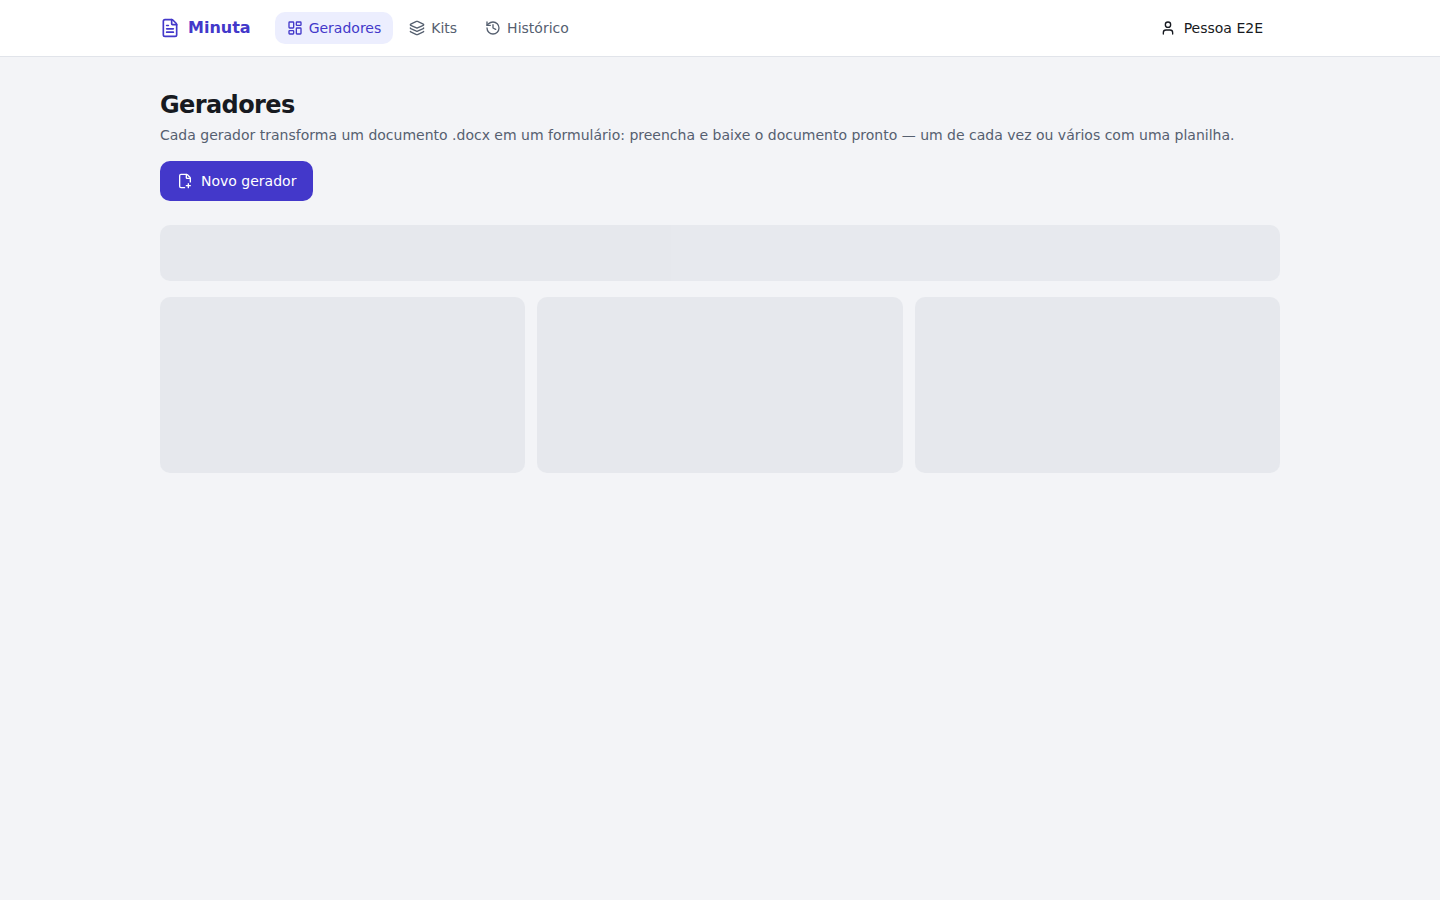
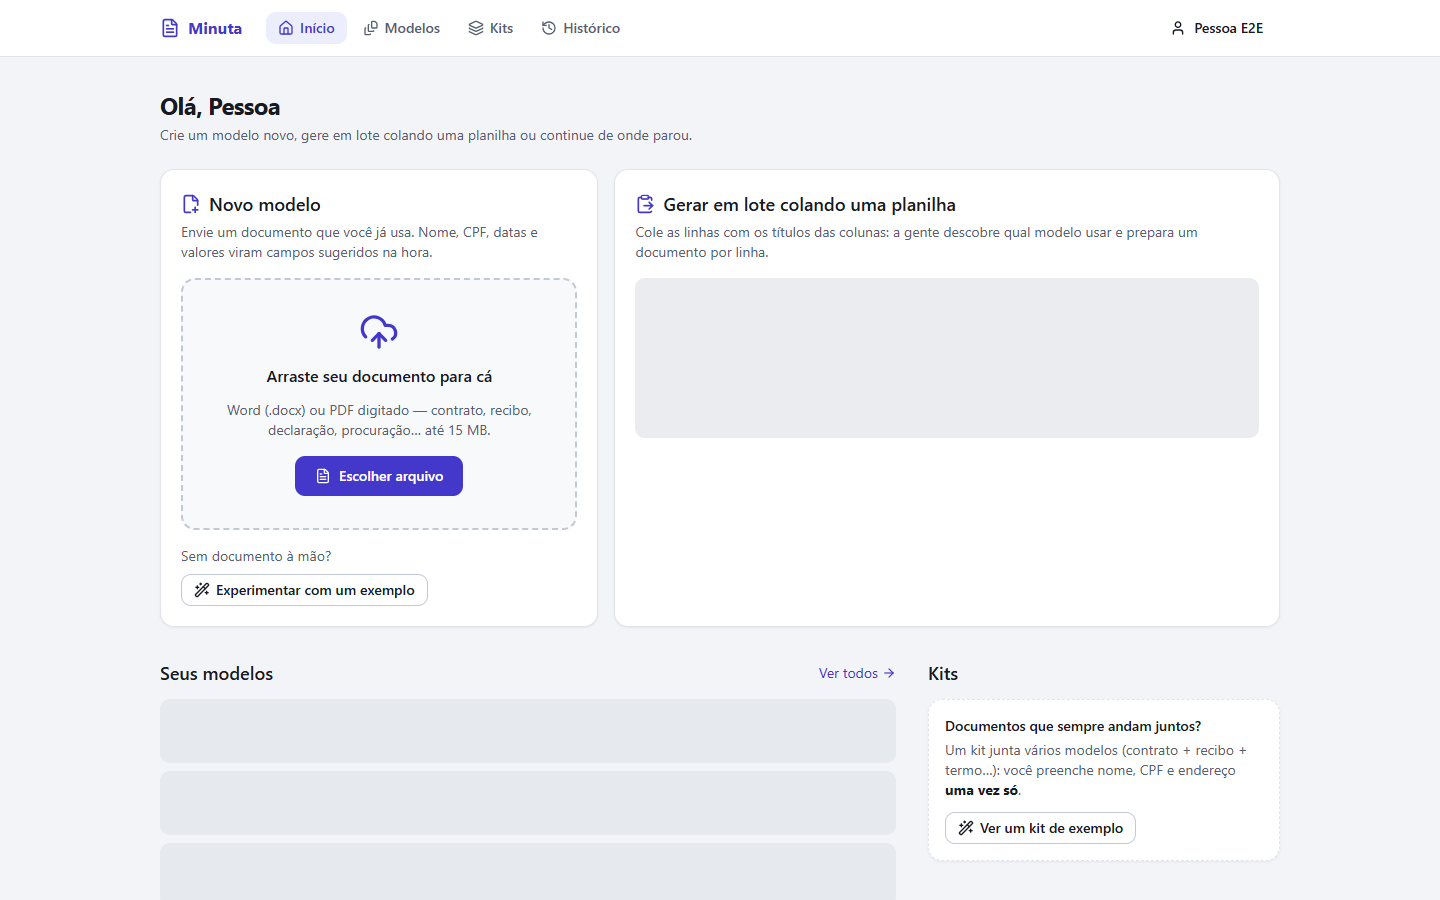
Documentação e capturas da Fase 0: modelo, PDF digitado, colar planilha
- README: etapas Documento → Campos → Revisão → Gerar, PDF digitado,
  "cole aqui", roteiro, cobertura de testes e resultados verificados da
  Fase 0 (stack Docker nova, Edge, limites de cadastro por hora).
- DECISIONS D28, API (/batch/identify, formatos de upload e erros de PDF),
  DEMO (PDF digitado e digitalizado, captura em 390 px) e ROADMAP.
- docs/screenshots recapturadas na stack Docker nova; nova 19 (celular).

diff --git a/README.md b/README.md
@@ -1,15 +1,16 @@
 # Minuta — geração inteligente de documentos
 
-Transforme documentos repetitivos (contratos, declarações, propostas, procurações, termos, recibos, formulários de RH) em **geradores reutilizáveis**.
+Transforme documentos repetitivos (contratos, declarações, propostas, procurações, termos, recibos, formulários de RH) em **modelos reutilizáveis**.
 
-Cada gerador passa por 4 etapas, sempre visíveis no topo da tela — **Modelo → Campos → Revisão → Gerar**:
+Cada modelo passa por 4 etapas, sempre visíveis no topo da tela — **Documento → Campos → Revisão → Gerar**:
 
-1. **Modelo**: envie um `.docx` que você já usa (dá para trocá-lo depois; os campos são reposicionados).
+1. **Documento**: envie um `.docx` ou um **PDF digitado** (exportado do Word, Google Docs ou de um sistema) que você já usa; o PDF vira Word editável. **PDF digitalizado** (foto ou escaneamento) é recusado de propósito, com explicação. Dá para trocar o documento depois; os campos são reposicionados.
 2. **Campos**: no editor visual, **selecione** um trecho como “João da Silva” e clique em **Transformar em campo** — sem escrever `{{placeholders}}`. Sugestões automáticas (CPF, CNPJ, datas, valores…) e avisos de nome repetido, lista sem opções e campo fora do documento.
 3. **Revisão**: o documento com **dados de exemplo**, a lista do que falta ajustar e o nome dos arquivos gerados.
 4. **Gerar**: **um documento** num formulário automático (máscaras e validações brasileiras, prévia ao vivo, rascunho salvo sozinho) ou **vários** numa grade estilo Excel (colar do Excel, importar XLSX/CSV, erros por célula, resumo antes de gerar).
 4. Saída em **DOCX e PDF reais** (LibreOffice), com histórico, links temporários e ZIP + relatório CSV para lotes.
-5. **Kit de documentos**: agrupe geradores prontos que compartilham variáveis (nome, CPF, endereço…) — preencha uma vez e gere todos juntos, com download individual ou em ZIP.
+5. **Cole aqui e a gente descobre o modelo** (página inicial): cole as linhas de uma planilha com a linha de títulos; o sistema identifica qual modelo ela preenche, mostra como cada coluna vira um campo e leva as linhas para o lote. Sem linha de títulos, só o conteúdo (CPF, datas…) é usado e nada é enviado ao classificador externo.
+6. **Kit de documentos**: agrupe modelos prontos que compartilham variáveis (nome, CPF, endereço…) — preencha uma vez e gere todos juntos, com download individual ou em ZIP.
 
 Stack: Next.js 16 · React 19 · TipTap · TanStack Query/Virtual · FastAPI · SQLAlchemy 2 · PostgreSQL · Redis + Dramatiq · MinIO/S3 · LibreOffice headless.
 
@@ -66,7 +67,7 @@ API_INTERNAL_URL=http://127.0.0.1:8100 npm run dev      # PowerShell: $env:API_I
 
 Veja o passo a passo completo em [docs/DEMO.md](docs/DEMO.md). Resumo, com os arquivos em `demo/`:
 
-1. **Cadastro** → **Criar meu primeiro gerador** → (etapa **Modelo**) nome opcional → envie `demo/contrato_prestacao_servicos.docx`.
+1. **Cadastro** → no **Início**, envie `demo/contrato_prestacao_servicos.docx` (ou `.pdf`, que é digitado) ou abra **Novo modelo** → (etapa **Documento**) nome opcional.
 2. (etapa **Campos**) **Selecione “João da Silva”** → menu flutuante → **Transformar em campo** → “Nome do contratante”. Na outra ocorrência, o editor avisa que o nome já existe e oferece **usar o campo existente**.
 3. Selecione “consultoria em desenvolvimento de software” → tipo **Lista de opções** → cole 3 opções (uma por linha).
 4. Aba **Sugestões** → **Aceitar as recomendadas** (CPF, CNPJ, valor, datas).
@@ -84,7 +85,7 @@ cd backend && .venv/Scripts/python -m pytest
 TEST_DATABASE_URL=postgresql://usuario:senha@localhost:5432/teste .venv/Scripts/python -m pytest
 # Frontend: unidade (vetores compartilhados com o backend + grade) e tipos
 cd frontend && npm test && npm run typecheck
-# E2E + acessibilidade (stack já em execução em :3000; E2E_CHANNEL=msedge usa o Edge instalado;
+# E2E + acessibilidade (stack já em execução em :3000, ou E2E_BASE_URL=http://localhost:PORTA; E2E_CHANNEL=msedge usa o Edge instalado;
 # E2E_EXECUTABLE_PATH=/caminho/do/chromium usa um Chromium já instalado)
 cd frontend && npx playwright test
 # Recapturar docs/screenshots
@@ -95,7 +96,26 @@ cd backend && .venv/Scripts/python -m ruff check app seed tests
 python scripts/crash_recovery_test.py
 ```
 
-O que a suíte cobre: validações CPF/CNPJ (incl. alfanumérico) e tipos de campo; **vetores compartilhados backend↔frontend**; texto dividido em runs do DOCX, campo repetido, formatação, imagem, tabela, cabeçalho, rodapé; segurança de upload (ZIP bomb, macros, XXE, path traversal); **isolamento multi-tenant** (dois workspaces, chamadas de geradores **e** de kits + download assinado); **idempotência**; **falha parcial em lote**, retomada de job e **recuperação após queda do worker** (claim atômico, heartbeat, watchdog, perda de posse); geração sem etapa de publicação (uso imediato, restaurar versão, fixar); **kit de documentos** (detecção automática de campos compartilhados — por similaridade de rótulo e, opcionalmente, por **classificação semântica de papéis** via TypeSafe.ai/Jev, distinguindo "contratante" de "contratado" e reconhecendo sinônimos —, mapeamento manual, tipos incompatíveis, geração de todos os documentos do kit, ZIP + relatório); **detecção de campos no upload** (ano, mês como lista suspensa, numeração de sugestões duplicadas, papel de parte antes de um nome — ver D26); importação XLSX/CSV (mapeamento sugerido, **oferecer adicionar um valor novo à lista suspensa** durante a importação); provedor de IA (schema, retry, timeout, cache por hash, indisponibilidade); grade (colar TSV, desfazer, preencher); **pendências dos campos, ordem do documento, dados de exemplo e nome de arquivo** (unidade); E2E dos fluxos principais pelas 4 etapas (individual, gerador sem documento, editor com pendências e salvamento, lote com planilha vazia/linha de exemplo, kit); axe (WCAG A/AA) em todas as etapas do gerador.
+O que a suíte cobre: validações CPF/CNPJ (incl. alfanumérico) e tipos de campo; **vetores compartilhados backend↔frontend**; texto dividido em runs do DOCX, campo repetido, formatação, imagem, tabela, cabeçalho, rodapé; segurança de upload (ZIP bomb, macros, XXE, path traversal); **isolamento multi-tenant** (dois workspaces, chamadas de geradores **e** de kits + download assinado); **idempotência**; **falha parcial em lote**, retomada de job e **recuperação após queda do worker** (claim atômico, heartbeat, watchdog, perda de posse); geração sem etapa de publicação (uso imediato, restaurar versão, fixar); **kit de documentos** (detecção automática de campos compartilhados — por similaridade de rótulo e, opcionalmente, por **classificação semântica de papéis** via TypeSafe.ai/Jev, distinguindo "contratante" de "contratado" e reconhecendo sinônimos —, mapeamento manual, tipos incompatíveis, geração de todos os documentos do kit, ZIP + relatório); **detecção de campos no upload** (ano, mês como lista suspensa, numeração de sugestões duplicadas, papel de parte antes de um nome — ver D26); importação XLSX/CSV (mapeamento sugerido, **oferecer adicionar um valor novo à lista suspensa** durante a importação); provedor de IA (schema, retry, timeout, cache por hash, indisponibilidade); grade (colar TSV, desfazer, preencher); **pendências dos campos, ordem do documento, dados de exemplo e nome de arquivo** (unidade); E2E dos fluxos principais pelas 4 etapas (individual, modelo sem documento, editor com pendências e salvamento, lote com planilha vazia/linha de exemplo, kit, PDF digitado × digitalizado, colar planilha com e sem títulos, celular 390 px); **PDF digitado vs digitalizado** e **colar sem títulos não chega ao classificador externo** (backend); axe (WCAG A/AA) em todas as etapas do modelo.
+
+## Resultados verificados — Fase 0 (execução real, 15/10/2026)
+
+Ambiente: stack Docker **recriada do zero** num projeto Compose separado (`docker compose -p minuta-fase0`, portas 3210/8110/9111, volumes novos — nenhum volume ou dado existente foi apagado ou alterado), imagens reconstruídas com o código desta branch; E2E no **Microsoft Edge** (`E2E_CHANNEL=msedge`); testes de backend em SQLite (modo local).
+
+| Verificação | Resultado |
+|---|---|
+| Backend `pytest` | **273 passed** (inclui PDF digitado × digitalizado, `/batch/identify`, colar sem títulos, `{modelo}`) |
+| Backend `ruff check` · `ruff format --check` | 0 erros · 99 arquivos formatados |
+| Frontend `vitest` | **87 passed** |
+| Frontend `tsc` (app + testes) · `next build` | 0 erros |
+| Frontend `eslint` | 0 erros, 15 avisos (regras do React Compiler, os mesmos de antes) |
+| Stack Docker do zero (`up -d --build`: postgres 17, redis, minio, migrate + seed, api, worker, web) | todos os serviços saudáveis; migrations 0001 → 0004 aplicadas |
+| E2E Playwright (Edge) contra a stack Docker | **15 passed**, 2 de captura de tela (sob demanda): fluxo individual (Documento → Campos → Revisão → Gerar), modelo sem documento, editor, 4 de lote, kit, **PDF digitado aceito / digitalizado recusado**, **colar com e sem títulos**, **celular 390 px**, 3× axe (WCAG 2 A/AA) + teclado |
+| Home em 390 px | sem rolagem horizontal (corrigido: a lista "Seus modelos" chegava a 435 px) |
+
+Observações da execução:
+- O cadastro é limitado a **10 por hora por IP** (`app/modules/auth/service.py`). A suíte E2E cria ~7 contas por execução; para repeti-la na mesma hora numa stack de desenvolvimento, apague a chave `rl:register:*` do Redis **dessa stack** (`docker compose exec redis redis-cli --scan --pattern 'rl:register:*'`).
+- Não reexecutado nesta fase: PostgreSQL via `TEST_DATABASE_URL`, lote de 1.000 e queda do worker (`scripts/crash_recovery_test.py`).
 
 ## Resultados verificados — revisão de UX (execução real, 26/09/2026)
 

diff --git a/docs/DEMO.md b/docs/DEMO.md
@@ -5,18 +5,21 @@ Capturas de tela em `docs/screenshots/` (geradas por `CAPTURE_SCREENSHOTS=1 npx 
 
 | | |
 |---|---|
-| ![Primeiro acesso](screenshots/01-primeiro-acesso.png) | ![Etapa Modelo](screenshots/02-etapa-modelo-envio.png) |
+| ![Primeiro acesso](screenshots/01-primeiro-acesso.png) | ![Etapa Documento](screenshots/02-etapa-modelo-envio.png) |
 | ![Seleção e menu flutuante](screenshots/04-editor-selecao-menu-flutuante.png) | ![Aviso de nome repetido](screenshots/06-editor-aviso-nome-repetido.png) |
 | ![Lista de campos](screenshots/08-editor-lista-de-campos.png) | ![Revisão com dados de exemplo](screenshots/10-revisao-previa-exemplo.png) |
 | ![Formulário e prévia](screenshots/12-formulario-previa-erro.png) | ![Lote: resumo antes de gerar](screenshots/16-lote-resumo.png) |
 | ![Lote com erros](screenshots/15-lote-grade-com-erros.png) | ![Histórico](screenshots/18-historico.png) |
+| ![Início no celular (390 px)](screenshots/19-inicio-celular-390.png) | |
 
-Todo gerador tem as mesmas **4 etapas**, visíveis no topo de cada tela: **Modelo → Campos → Revisão → Gerar**. A etapa atual fica destacada, as concluídas ganham ✓ e as que ainda não fazem sentido ficam bloqueadas, com o motivo.
+Todo modelo tem as mesmas **4 etapas**, visíveis no topo de cada tela: **Documento → Campos → Revisão → Gerar**. (O que antes se chamava "gerador" agora é "modelo"; ver [D28](DECISIONS.md).) A etapa atual fica destacada, as concluídas ganham ✓ e as que ainda não fazem sentido ficam bloqueadas, com o motivo.
 
-## Parte A — Criar um gerador (≈ 4 min)
+## Parte A — Criar um modelo (≈ 4 min)
 
-1. **Criar conta** em http://localhost:3000/register (ou entre com `demo@minuta.app` / `demo12345` para ver um gerador já pronto). No primeiro acesso, o painel explica as 4 etapas. Clique em **Criar meu primeiro gerador** (ou **Experimentar com um exemplo**).
-2. **Etapa Modelo**: dê um nome (opcional; sem nome, usamos o do arquivo) e escolha `demo/contrato_prestacao_servicos.docx`. A tela acompanha a análise e leva à etapa Campos.
+1. **Criar conta** em http://localhost:3000/register (ou entre com `demo@minuta.app` / `demo12345` para ver um gerador já pronto). No primeiro acesso, o **Início** explica as 4 etapas: envie o documento ali mesmo, ou clique em **Novo modelo** em **Modelos** (ou **Experimentar com um exemplo**).
+2. **Etapa Documento**: dê um nome (opcional; sem nome, usamos o do arquivo) e escolha `demo/contrato_prestacao_servicos.docx`. A tela acompanha a análise e leva à etapa Campos.
+   - **PDF digitado**: `demo/contrato_prestacao_servicos.pdf` (exportado do Word/LibreOffice) é convertido em Word editável e aparece com o selo "convertido de PDF para Word".
+   - **PDF digitalizado**: `demo/contrato_digitalizado.pdf` (imagem de papel) é recusado com a explicação e o modelo não fica criado.
 3. **Etapa Campos**: o documento aparece com cabeçalho, corpo, **tabela**, rodapé, imagem e quebra de página (blocos cinza são preservados e não editáveis). À direita ficam a lista de **Campos** e as **Sugestões**.
 4. **Selecione "João da Silva"** (primeiro parágrafo). No menu flutuante, clique em **Transformar em campo**. O trecho fica destacado enquanto o painel está aberto. Digite **Nome do contratante** e clique em **Criar campo**. O trecho vira um chip com ícone e dica (nome, tipo, texto original).
 5. Selecione a outra ocorrência do nome ("em favor de João da Silva") e clique em **Transformar em campo**. Se digitar o mesmo nome, o editor **avisa que já existe** e oferece **usar o campo existente**. Também dá para escolher em "É uma informação que já tem campo?". O painel passa a mostrar "2× no documento", com setas para navegar entre as ocorrências.

diff --git a/docs/DECISIONS.md b/docs/DECISIONS.md
@@ -179,3 +179,11 @@ Avaliadas: **AG Grid Community**, **Glide Data Grid**, **TanStack Table + Virtua
   - Contêineres roláveis com `relative`: sem isso, o `<caption class="sr-only">` das tabelas alargava a página no celular.
   - Foco visível nos seletores com checkbox escondido e soltar arquivo na importação (antes o navegador abria o arquivo).
 - **E2E**: a suíte estava desatualizada em relação à interface. Foi reescrita para o fluxo atual, com casos novos: gerador sem documento, pendências e salvamento no editor, planilha vazia e linha de exemplo, e axe em todas as etapas.
+
+## D28 — Fase 0: PDF digitado, "modelo", colar tabela e o que nunca sai para fora
+- **PDF digitado vira .docx**: o resto do sistema continua trabalhando só com .docx. `docx_engine/pdf_import.py` converte (pdfplumber + python-docx; licenças MIT/BSD/Apache — PyMuPDF e pdf2docx ficaram de fora por serem AGPL). Roda em **processo filho** com tempo (60 s), memória (2 GB, Linux) e páginas (40) limitados.
+- **Digitado × digitalizado**: página com texto visível suficiente é digitada (mesmo com papel timbrado); sem letras visíveis e com muita área de imagem é digitalizada. A camada de OCR de scanners usa texto *invisível* (modo de renderização 3) e por isso **não conta**. Digitalizado é recusado (`PDF_SCANNED`) de propósito: OCR erra justamente nomes, CPFs e valores, que viram campos. Texto desenhado ou sem mapeamento Unicode → `PDF_TEXT_UNREADABLE`.
+- **Nomes**: "modelo" é a coisa reutilizável e a 1ª etapa é "Documento" (Documento → Campos → Revisão → Gerar). O código `{gerador}` dos nomes de arquivo continua valendo; `{modelo}` é o novo padrão e um campo chamado "modelo" vence o nome.
+- **Cole aqui**: `POST /batch/identify` escolhe o modelo pela tabela colada (nome do título, grafia parecida, conteúdo; semântico opcional). A tela leva as linhas ao lote pelo `sessionStorage`.
+- **Segurança (classificador externo)**: o classificador semântico recebe só rótulos de colunas e de campos. Se a 1ª linha colada parece **dado** (CPF, CNPJ, e-mail, data, CEP, valor, número, telefone), ela não é tratada como título: entra como amostra, só o casamento local roda e nada vai ao serviço externo (`header_looks_like_data`). Teste com espião no classificador em `test_identify.py`.
+- **Correção**: a data "01/02/2027" tem 8 dígitos e era lida como CEP no casamento por conteúdo; agora a data é testada antes.

diff --git a/docs/API.md b/docs/API.md
@@ -36,7 +36,7 @@ Sem rascunho/publicação: `document_generators.current_version_id` é a versão
 
 | Método | Rota | |
 |---|---|---|
-| POST | `/generators/{id}/template` | upload `.docx` (multipart `file`): valida, parseia, vira a versão atual na hora, enfileira análise |
+| POST | `/generators/{id}/template` | upload `.docx` **ou PDF digitado** (multipart `file`): valida, parseia (PDF vira .docx antes, ver [D28](DECISIONS.md)), vira a versão atual na hora, enfileira análise. Recusas de PDF: `NOT_A_PDF`, `PDF_SCANNED` (digitalizado), `PDF_TEXT_UNREADABLE`, `PDF_TOO_MANY_PAGES`, `PDF_TIMEOUT`, `PDF_CONVERSION_FAILED`; `ENCRYPTED` para PDF com senha. A versão traz `source_format` (`docx`\|`pdf`) |
 | GET | `/generators/{id}/editor` | documento (ProseMirror JSON), campos, versão atual, avisos (`404` se nenhum arquivo foi enviado ainda) |
 | PUT | `/generators/{id}/editor/content` | `{revision, doc}`; `409 STALE_REVISION` se a revisão mudou |
 | GET | `/generators/{id}/versions` · POST `…/versions/{vid}/restore` | histórico (a mais recente é a atual) / restaurar uma versão antiga como nova versão atual |
@@ -59,6 +59,7 @@ Tipos: `text_short, text_long, number, currency, date, cpf, cnpj, cep, email, ph
 | Método | Rota | |
 |---|---|---|
 | POST | `/generators/{id}/generate` | `{values, format: docx\|pdf\|both, filename_pattern}` → job (202) |
+| POST | `/batch/identify` | `{headers, rows (≤50), generator_id?}` → modelo provável para uma **tabela colada**, com o mapeamento coluna → campo (`status`: `exact`\|`probable`\|`weak`\|`none`). Sem linha de títulos (`header_looks_like_data: true`) só o casamento local por conteúdo roda — nada vai ao classificador externo (ver D28) |
 | POST | `/generators/{id}/batch/validate` | `{rows}` → erros por linha/campo (autoridade de validação) |
 | POST | `/generators/{id}/batches` | `{rows, format, only_valid, filename_pattern, idempotency_key}` → job |
 | GET | `/generators/{id}/batch/template.xlsx` | planilha-modelo com listas/validações e aba de instruções |

diff --git a/docs/ROADMAP.md b/docs/ROADMAP.md
@@ -23,7 +23,7 @@
 2. **Edição estrutural de tabelas** (linhas/colunas) e listas numeradas; fidelidade de alterações rastreadas (`w:ins/w:del`).
 3. **Campos condicionais e repetíveis** (blocos que aparecem por Sim/Não; tabelas com N linhas), valor por extenso (moeda/data).
 4. **Assinatura eletrônica** (fluxo com provedor; hoje há só ponto de extensão no modelo de jobs).
-5. **Entrada PDF (beta)**: fundo + campos posicionados (interface `TemplateSourceParser` já prevista).
+5. **PDF**: ~~entrada de PDF digitado~~ (feito, ver D28). Falta PDF **digitalizado** (OCR, hoje recusado de propósito) e PDF de formulário com campos posicionados (interface `TemplateSourceParser` já prevista).
 6. **Prévia fiel**: renderizar o DOCX compilado (LibreOffice → PDF/PNG) ao lado do formulário em vez da aproximação HTML.
 7. **Download direto por URL pré-assinada do S3** (arquivos grandes) e upload por URL assinada.
 8. Login social (Google/Microsoft), 2FA, antivírus de upload, CSP com nonce.
